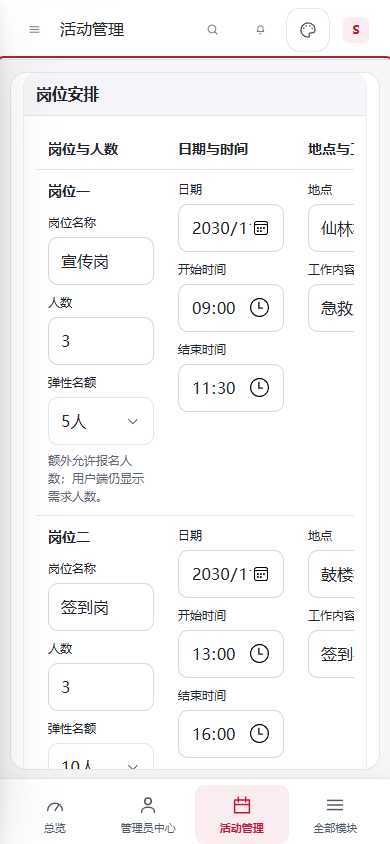
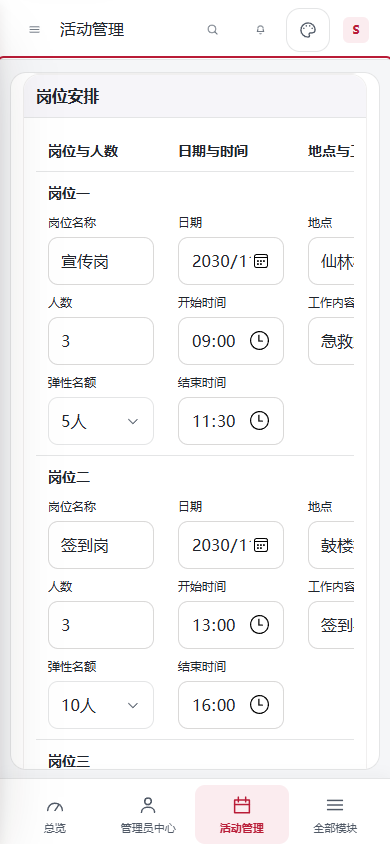
style(console): align position fields and remove flexible quota hint

diff --git a/public/app/console/pages/activity-draft-workspace.js b/public/app/console/pages/activity-draft-workspace.js
@@ -77,11 +77,11 @@ export function activityDraftWorkspace({initial,creationScopes=null,ownerNode,ac
     const tbody=h('tbody');
     for(const [index,p] of content.positions.entries()){
       const row=h('tr'),cells=[h('td'),h('td'),h('td'),h('td'),h('td')];row.append(...cells);
-      cells[0].append(h('strong',{class:'activity-position-label',text:positionLabel(index+1)}));
+      tbody.append(h('tr',{class:'activity-position-heading'},h('th',{colspan:5},h('strong',{class:'activity-position-label',text:positionLabel(index+1)}))));
       for(const [key,label,type]of [['name','岗位名称','text'],['date','日期','date'],['start','开始时间','time'],['end','结束时间','time'],['location','地点','text'],['capacity','人数','number'],['serviceHours','服务时长','number'],['trainingHours','培训时长','number'],['travelHours','交通时长','number'],['work','工作内容','text']]){
         const f=field({label,value:p[key],type,required:false,step:type==='time'?60:'any',onInput:()=>{p[key]=f.control.value;update();}});cells[['name','capacity'].includes(key)?0:['date','start','end'].includes(key)?1:['location','work'].includes(key)?2:3].append(f);
       }
-      const flexible=field({label:'弹性名额',value:p.flexibleCapacity||'0',options:flexibleOptions,hint:'额外允许报名人数；用户端仍显示需求人数。',onInput:()=>{p.flexibleCapacity=flexible.control.value;update();}});cells[0].append(flexible);
+      const flexible=field({label:'弹性名额',value:p.flexibleCapacity||'0',options:flexibleOptions,onInput:()=>{p.flexibleCapacity=flexible.control.value;update();}});cells[0].append(flexible);
       cells[4].append(button({label:'复制',size:'sm',onClick:()=>{content.positions.push({...p,id:crypto.randomUUID()});renderDetails();update();}}),button({label:'删除',variant:'ghost',size:'sm',onClick:()=>{content.positions=content.positions.filter(x=>x.id!==p.id);renderDetails();update();}}));tbody.append(row);
     }
     return h('div',{class:'activity-draft-table'},h('table',{},h('thead',{},h('tr',{},...['岗位与人数','日期与时间','地点与工作','时长（小时）','操作'].map(text=>h('th',{text})))),tbody));
@@ -91,7 +91,7 @@ export function activityDraftWorkspace({initial,creationScopes=null,ownerNode,ac
     const arrange=h('div',{class:'activity-draft-grid'},input('deadline','报名截止时间（北京时间）','datetime-local'),input('date','活动开始日期','date'),input('endDate','活动结束日期','date'));
     if(content.bookingMode==='unified')for(const [key,label,type]of [['start','开始时间','time'],['end','结束时间','time'],['location','地点','text'],['capacity','报名人数','number'],['serviceHours','服务时长','number'],['trainingHours','培训时长','number'],['travelHours','交通时长','number'],['work','工作内容','text']]){
       arrange.append(input(key,label,type,{step:type==='time'?60:'any'}));
-      if(key==='capacity')arrange.append(input('flexibleCapacity','弹性名额','text',{value:content.flexibleCapacity||'0',options:flexibleOptions,hint:'额外允许报名人数；用户端仍显示需求人数。'}));
+      if(key==='capacity')arrange.append(input('flexibleCapacity','弹性名额','text',{value:content.flexibleCapacity||'0',options:flexibleOptions}));
     }
     details.append(panel({title:'活动安排',body:arrange}));
     if(content.bookingMode==='grouped')details.append(panel({title:'岗位安排',body:h('div',{class:'stack-3'},positionTable(),button({label:'添加岗位',onClick:()=>{content.positions.push({id:crypto.randomUUID(),name:'',date:content.date,start:'',end:'',campus:'',location:'',capacity:'',serviceHours:'',trainingHours:'',travelHours:'',work:''});renderDetails();update();}}))}));

diff --git a/public/styles/activity-workspace.css b/public/styles/activity-workspace.css
@@ -159,6 +159,8 @@
 
 .console .activity-draft-workspace__form :is(h2,h3,h4,.field__label,.activity-position-label){color:var(--text-primary)}
 .activity-position-label{display:block;margin-bottom:12px;font-weight:700}
+.activity-draft-workspace .activity-draft-table .activity-position-heading>th{padding-bottom:0;border-bottom:0}
+.activity-position-heading .activity-position-label{margin-bottom:0}
 .activity-information-paper{max-width:960px;margin-inline:auto;width:100%;box-sizing:border-box}
 .activity-information-paper .activity-preview__schedule{grid-template-columns:48px minmax(0,1fr)}
 .activity-information-paper .activity-preview__people{margin-top:20px}
